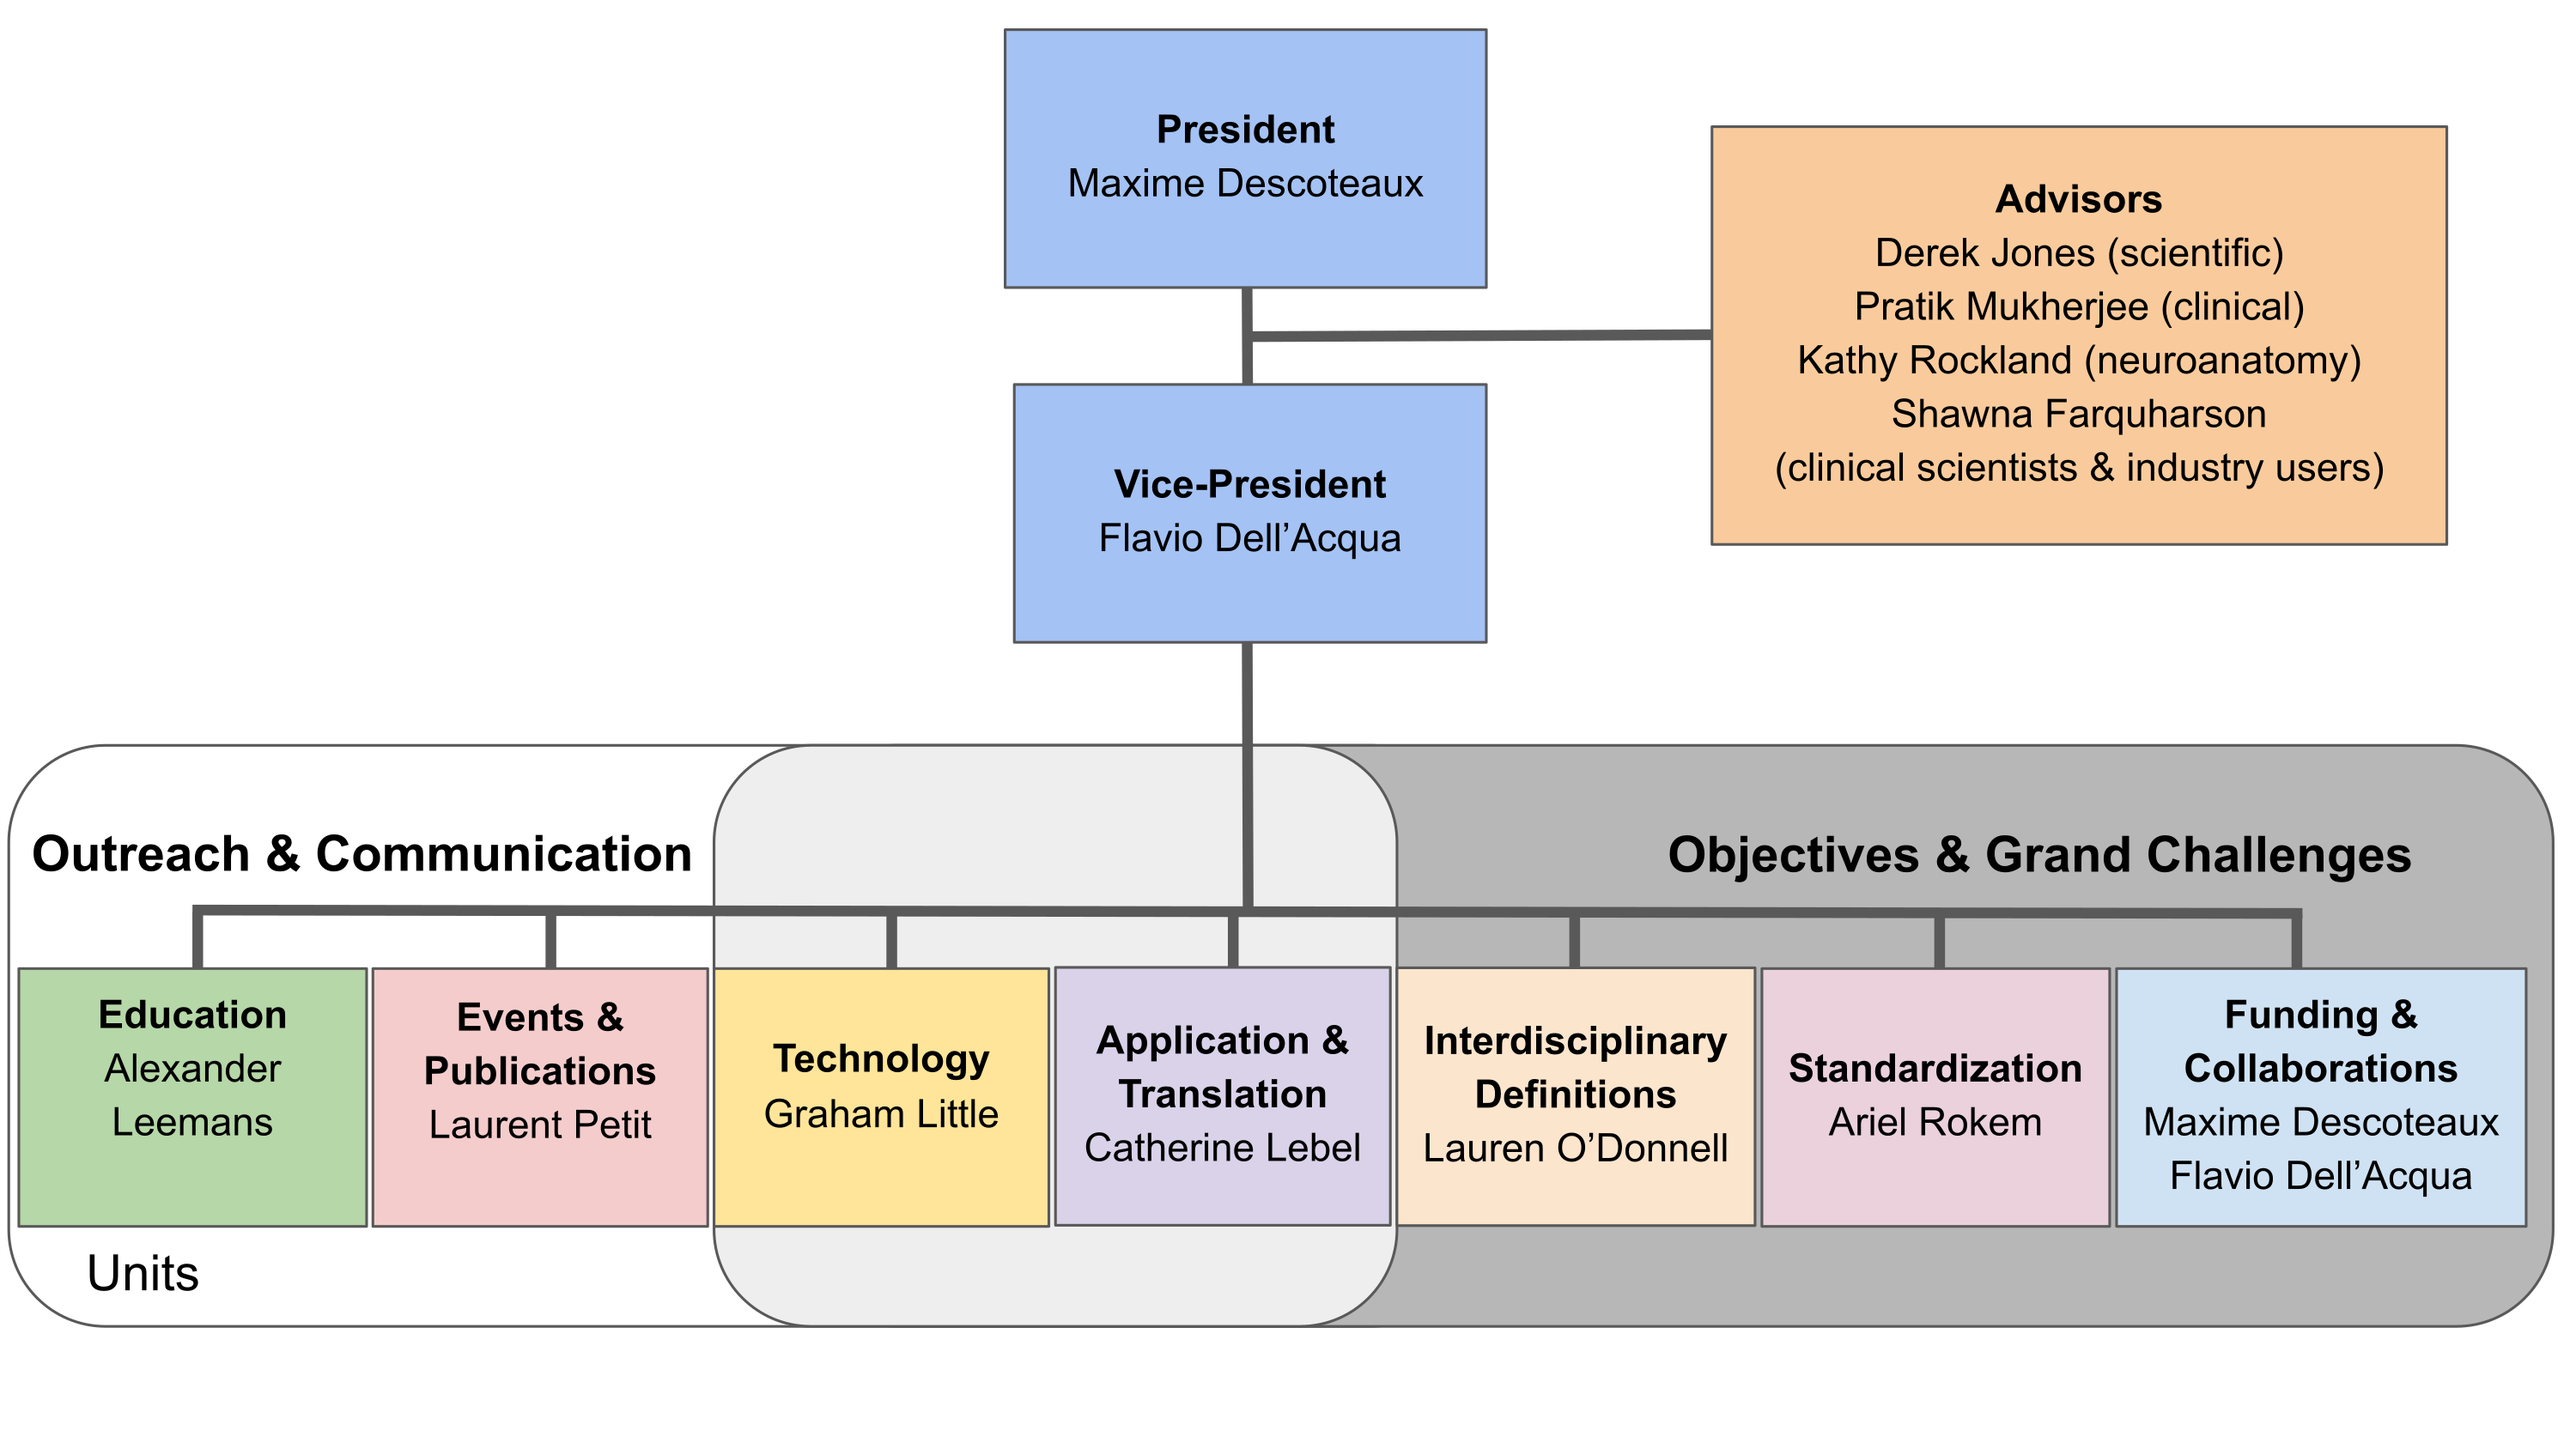
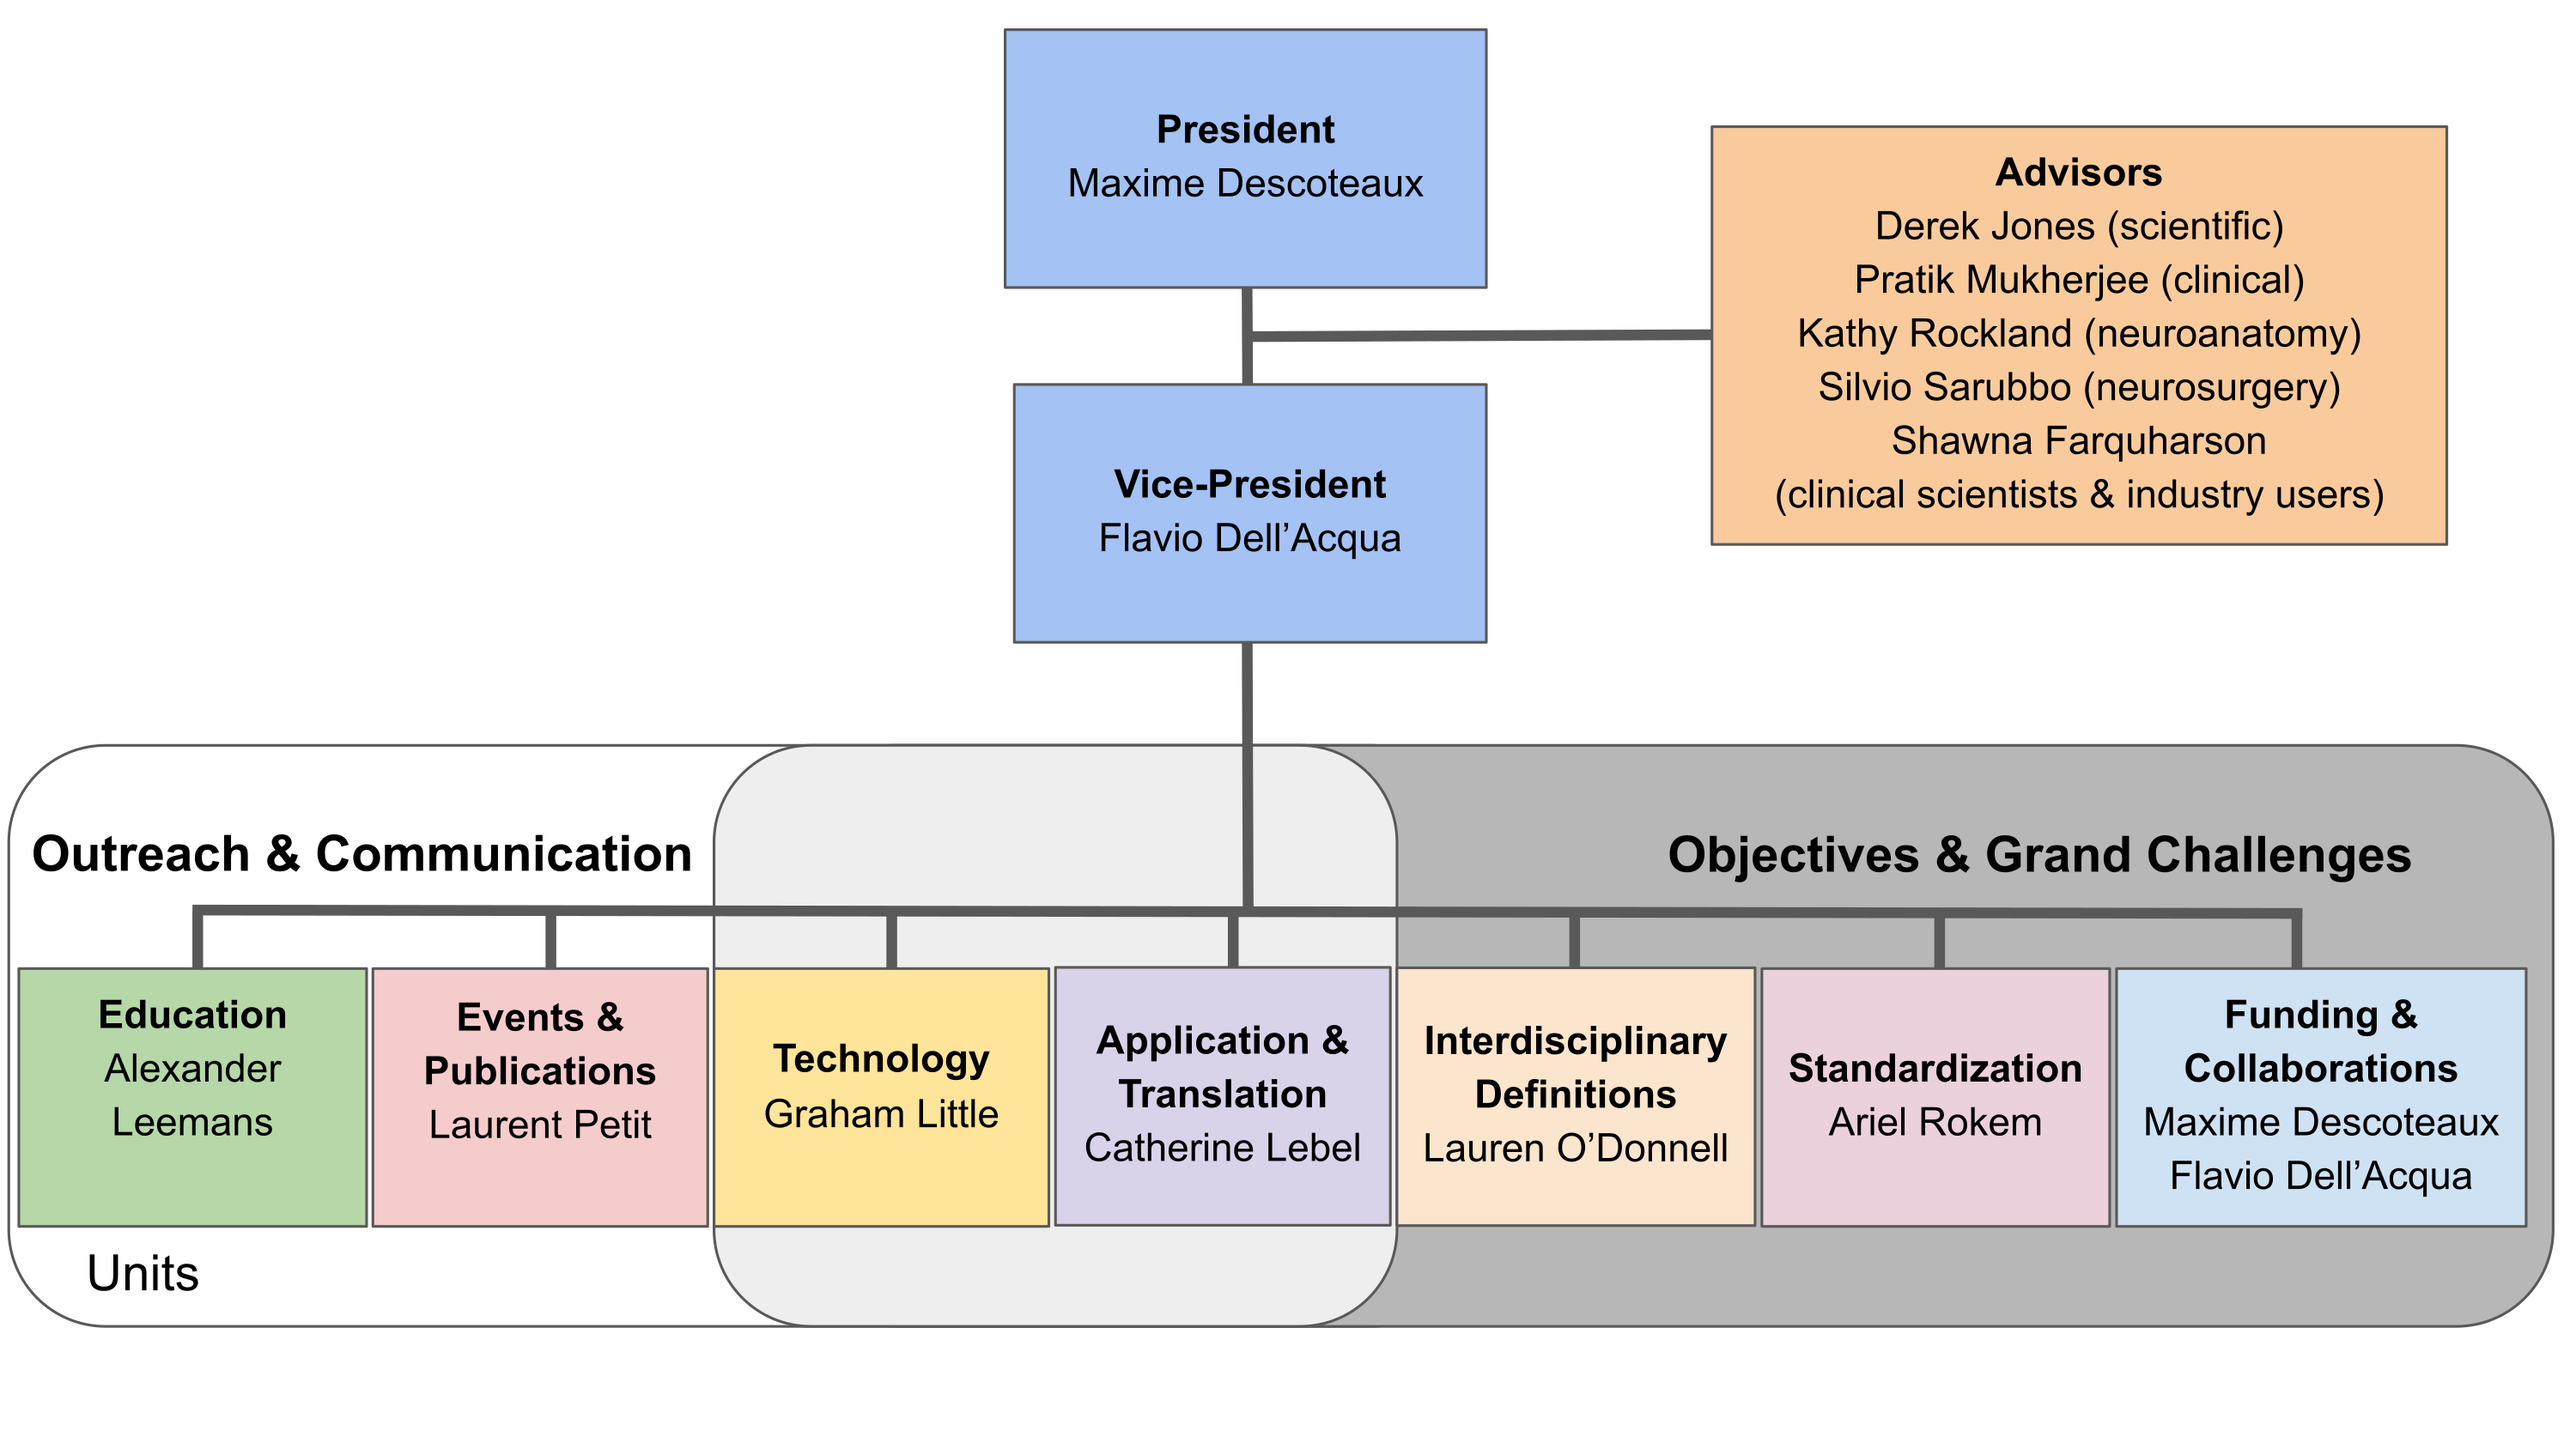
added silvio as an advisor

Changed region(s): [[0.682, 0.0924, 0.93, 0.3697]]

diff --git a/content/en/scientific_committee.md b/content/en/scientific_committee.md
@@ -130,7 +130,7 @@ The society has adopted an organizational structure for the scientific committee
 |:----:|
 |<b> Advisors  </b>|
 |<details> <summary> Description </summary> <div> The society is fortunate to have world leading experts spanning vastly different disciplines. To leverage this expertise, advisory roles have been established to help guide the leadership team in framing the society’s structure and objectives. </div></details>|
-|<details> <summary> People </summary> <div><a href="https://profiles.cardiff.ac.uk/staff/jonesd27" target="_blank">Derek Jones - CU (UK) </a><a href="https://www.bumc.bu.edu/anatneuro/kathy-rockland/" target="_blank"> Kathy Rockland - BU (USA) </a><a href="https://anif.org.au/" target="_blank">Shawna Farquharson - ANIF (AUS) </a><a href="https://profiles.ucsf.edu/pratik.mukherjee" target="_blank"> Pratik Mukherjee - UCSF (USA)</a></div></details>|
+|<details> <summary> People </summary> <div><a href="https://profiles.cardiff.ac.uk/staff/jonesd27" target="_blank">Derek Jones - CU (UK) </a><a href="https://www.bumc.bu.edu/anatneuro/kathy-rockland/" target="_blank"> Kathy Rockland - BU (USA) </a><a href="https://anif.org.au/" target="_blank">Shawna Farquharson - ANIF (AUS) </a><a href="https://profiles.ucsf.edu/pratik.mukherjee" target="_blank"> Pratik Mukherjee - UCSF (USA)</a><a href="https://www.researchgate.net/profile/Silvio-Sarubbo" target="_blank">Silvio Sarubbo - UofT (ITLY)</a></div></details>|
 
 </center>
 </div>
